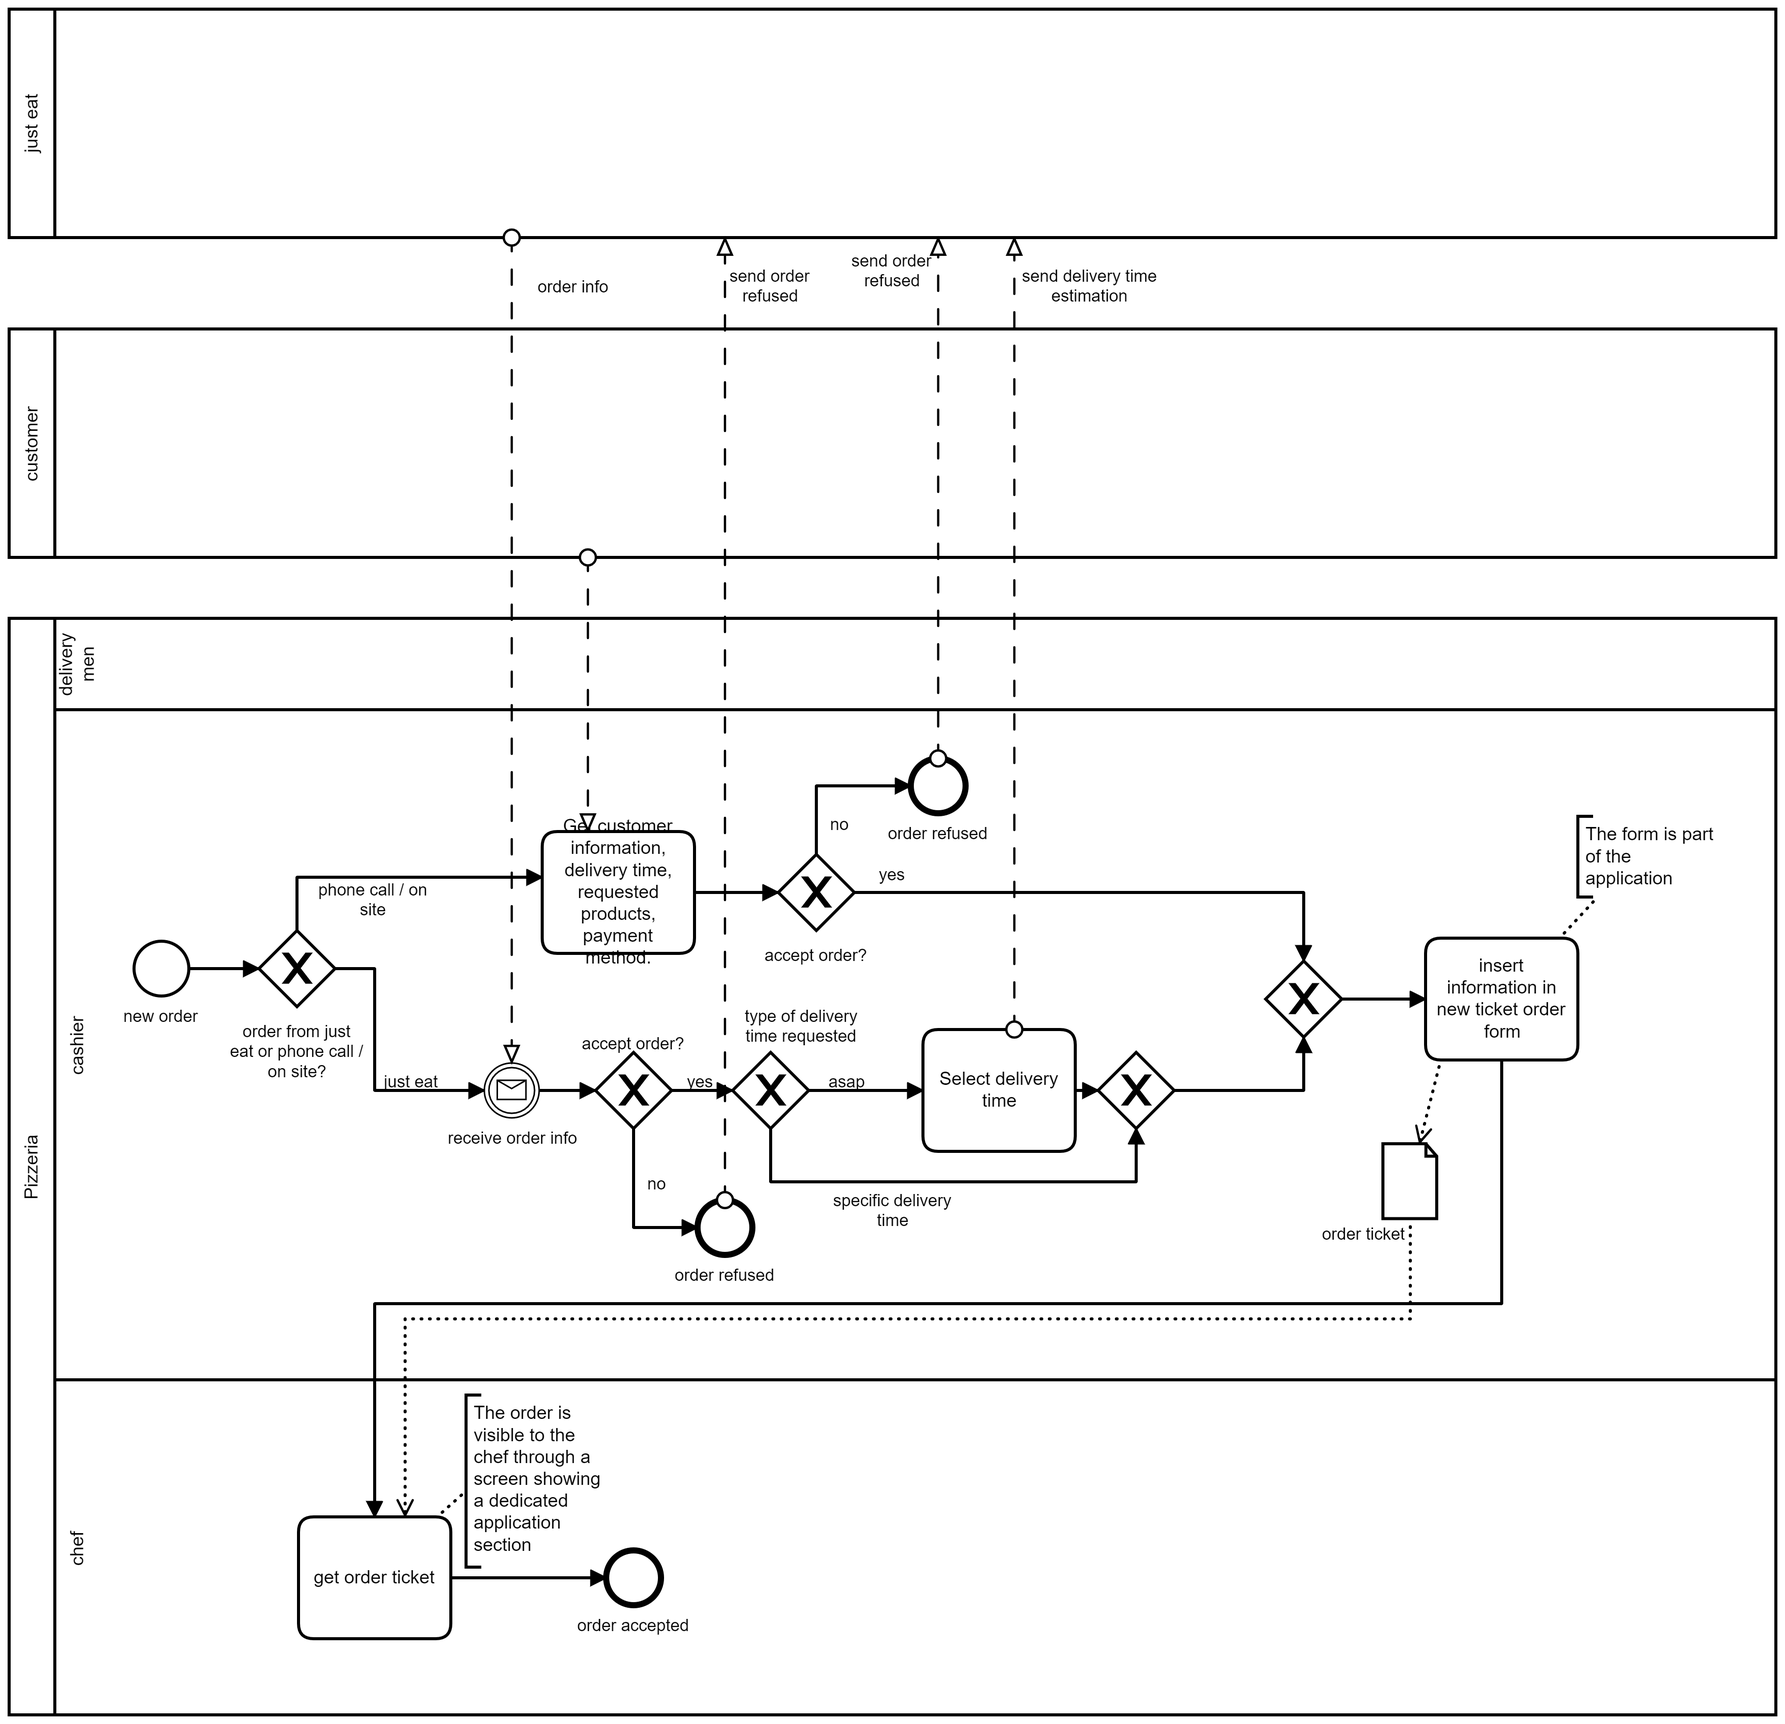
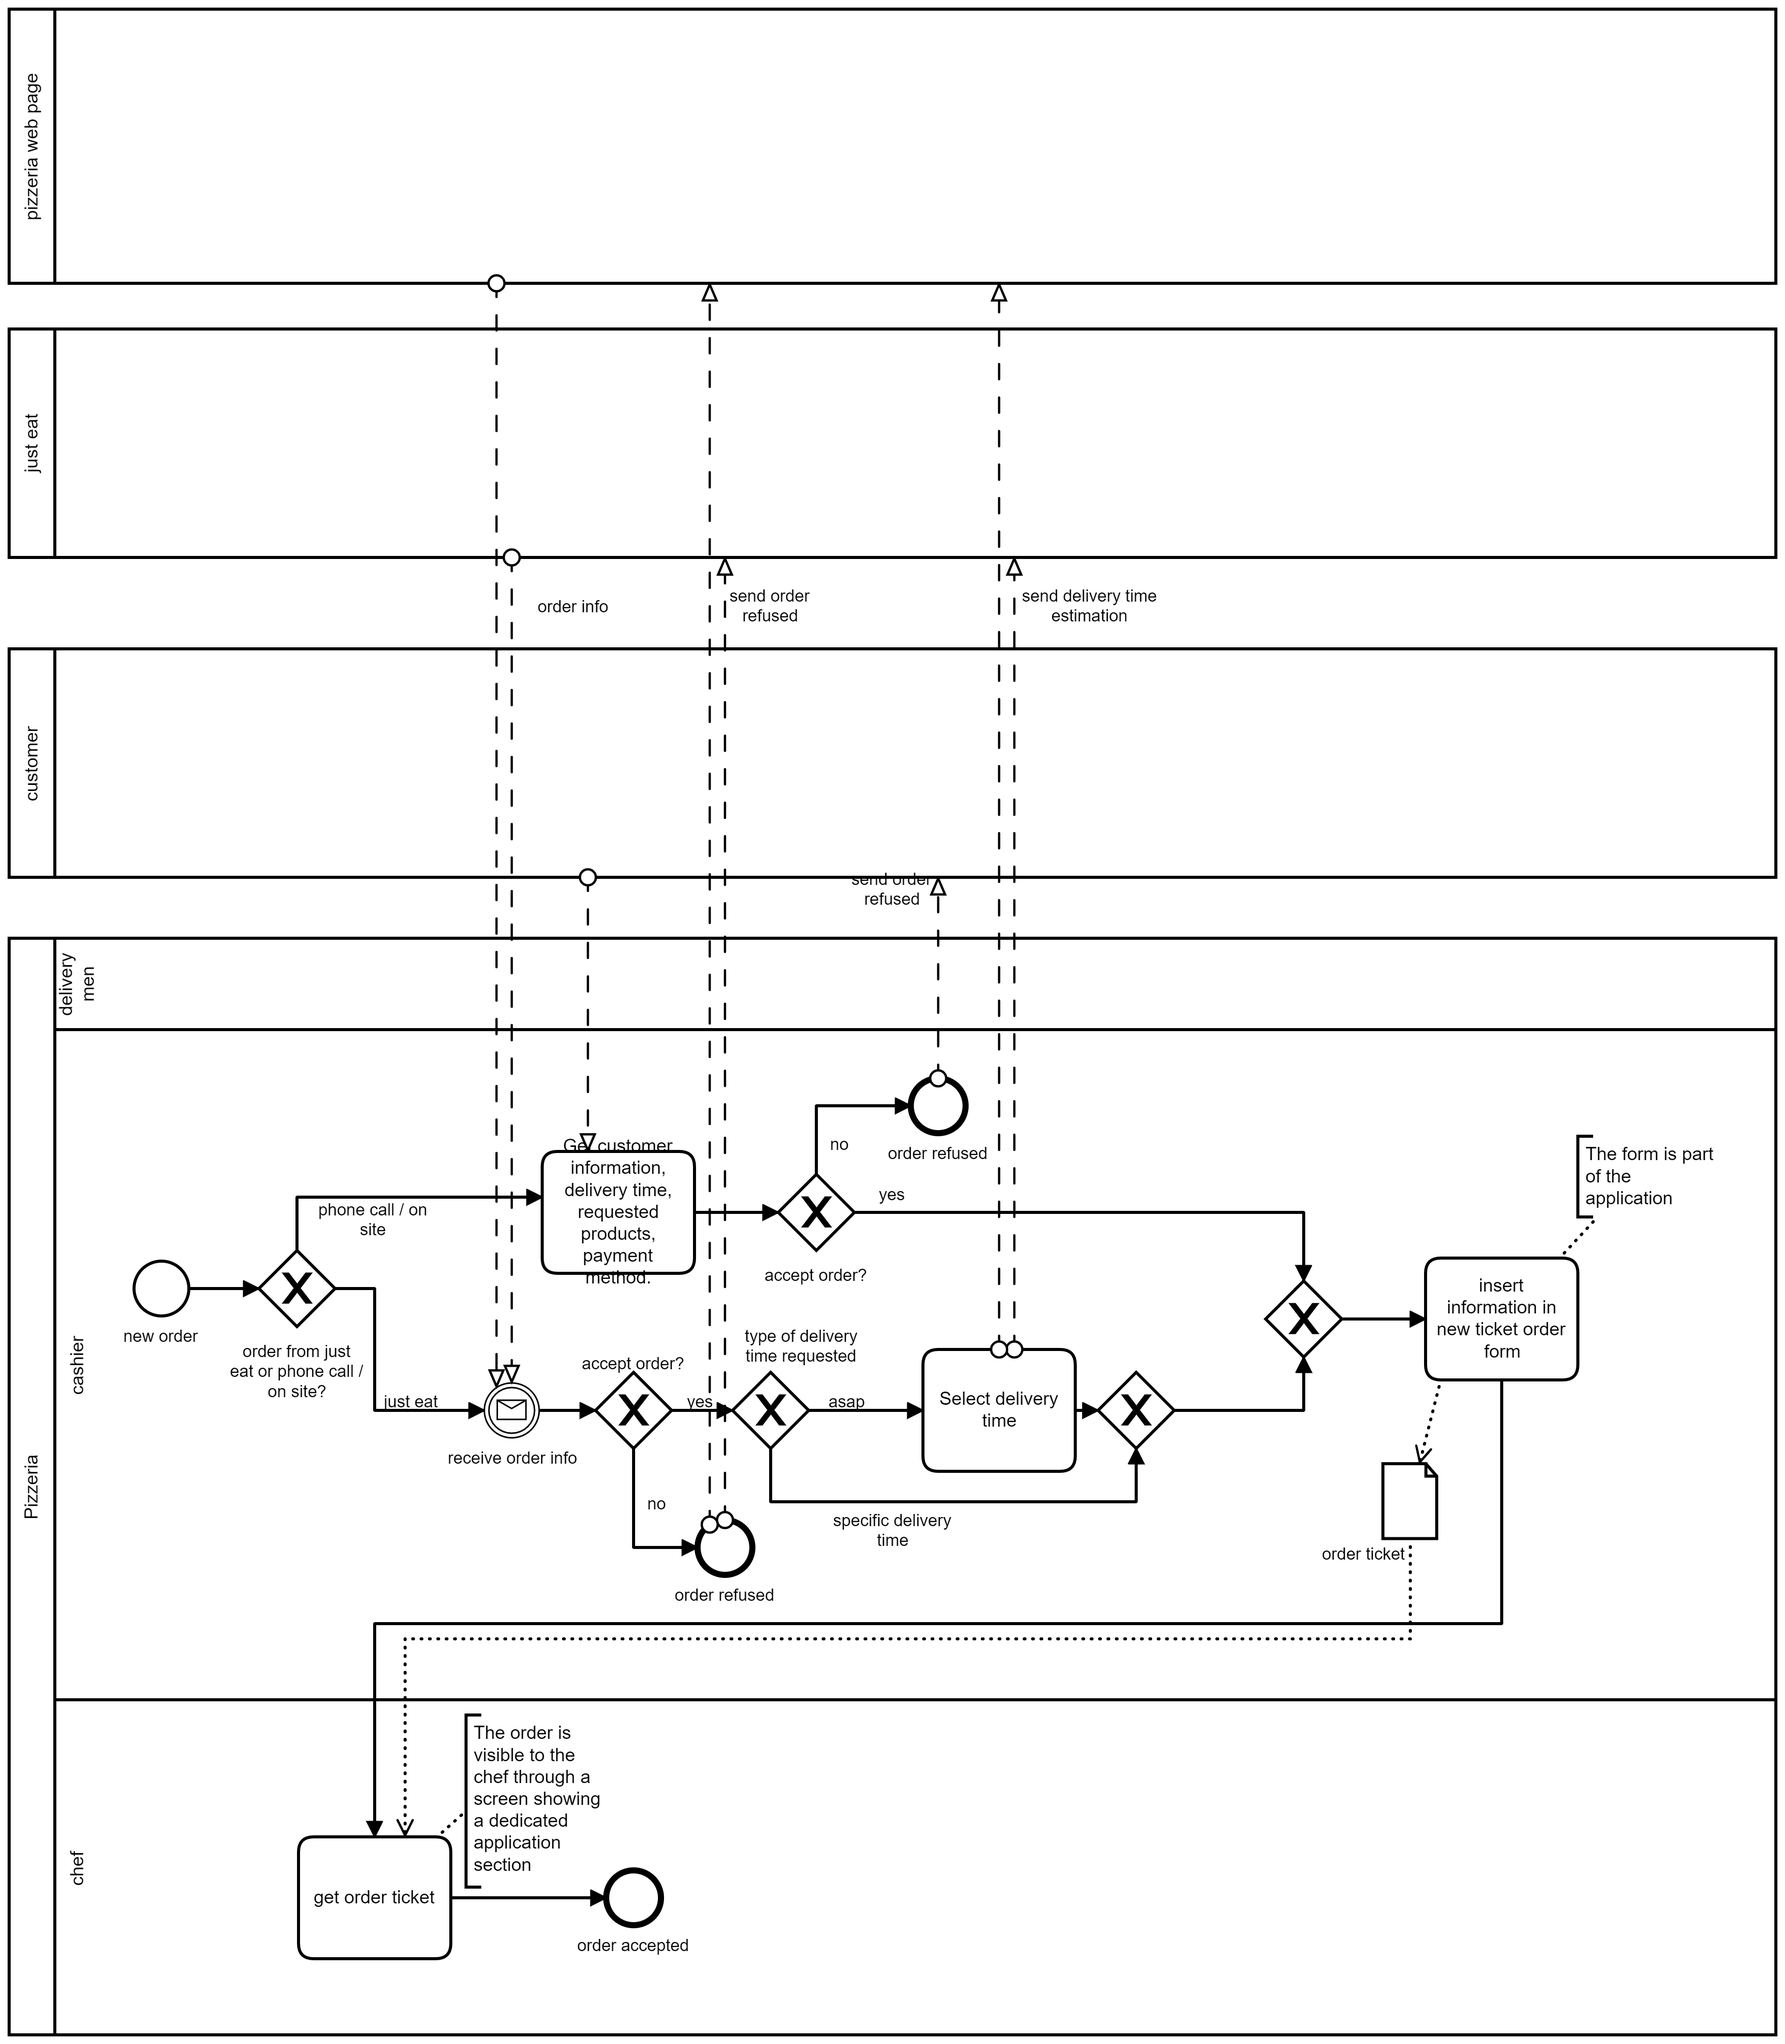
:hammer: changed getNewOrder To Be BPMN, Summmary of changes and Technological view

diff --git a/ReportToBe.md b/ReportToBe.md
@@ -17,6 +17,7 @@ An existing restaurant-management product will be introduced to automatize and r
 - Register customer to get customer informations only once in order to:
   - build loyalty of the customer by offering loyalty prizes.
   - speed up ordering process
+- An online store will be introduced to offer a web ordering alternative to the customers without the downside of the high fees of just eat.
 
 # Organizational variables
 
@@ -105,6 +106,7 @@ No change
 ![get new order bpmn](./images/BPMN_TOBE_GetNewOrder.png)
 - Order is no more registered through a post it but instead is inserted in a form, leaving less space to human error (forgetting to ask for something) in getting the infos 
 - The order can be composed only with products formed by ingredients that are available.
+- orders can now arrive also through the website with a lower expense in terms of fee compared to JustEat.
 - A created order becomes now visible to the pizza chef automatically from a dedicated screen in the kitchen 
 - Orders not being physical beings are now immune to loss or damage.
 #### Queue management
@@ -197,22 +199,24 @@ Show how the selected application (Square Up POS + KDS + Online service) provide
 ```plantuml
 @startuml
 node Just_eat_server
-node Pizzeria_server
+node SquareUp_server
 node Deliverer_smartphone
 node Cashier_pc
 node Chef_device
 
 artifact JustEat_app
 artifact browser
-artifact PizzeriaManagementApp
+artifact SquareUpApp
+artifact PizzeriaWebsite
 
 Just_eat_server -- Chef_device
-Pizzeria_server -r- Just_eat_server
-JustEat_app -u- Chef_device
-Pizzeria_server -- Cashier_pc
-Pizzeria_server -- Deliverer_smartphone
-Pizzeria_server -- Chef_device 
-Pizzeria_server -u- PizzeriaManagementApp
+SquareUp_server -r- Just_eat_server
+JustEat_app -u- Just_eat_server
+SquareUp_server -- Cashier_pc
+SquareUp_server -- Deliverer_smartphone
+SquareUp_server -- Chef_device
+SquareUp_server -u- PizzeriaWebsite  
+SquareUp_server -u- SquareUpApp
 Deliverer_smartphone  -- browser
 Chef_device  -- browser
 Cashier_pc  -- browser
